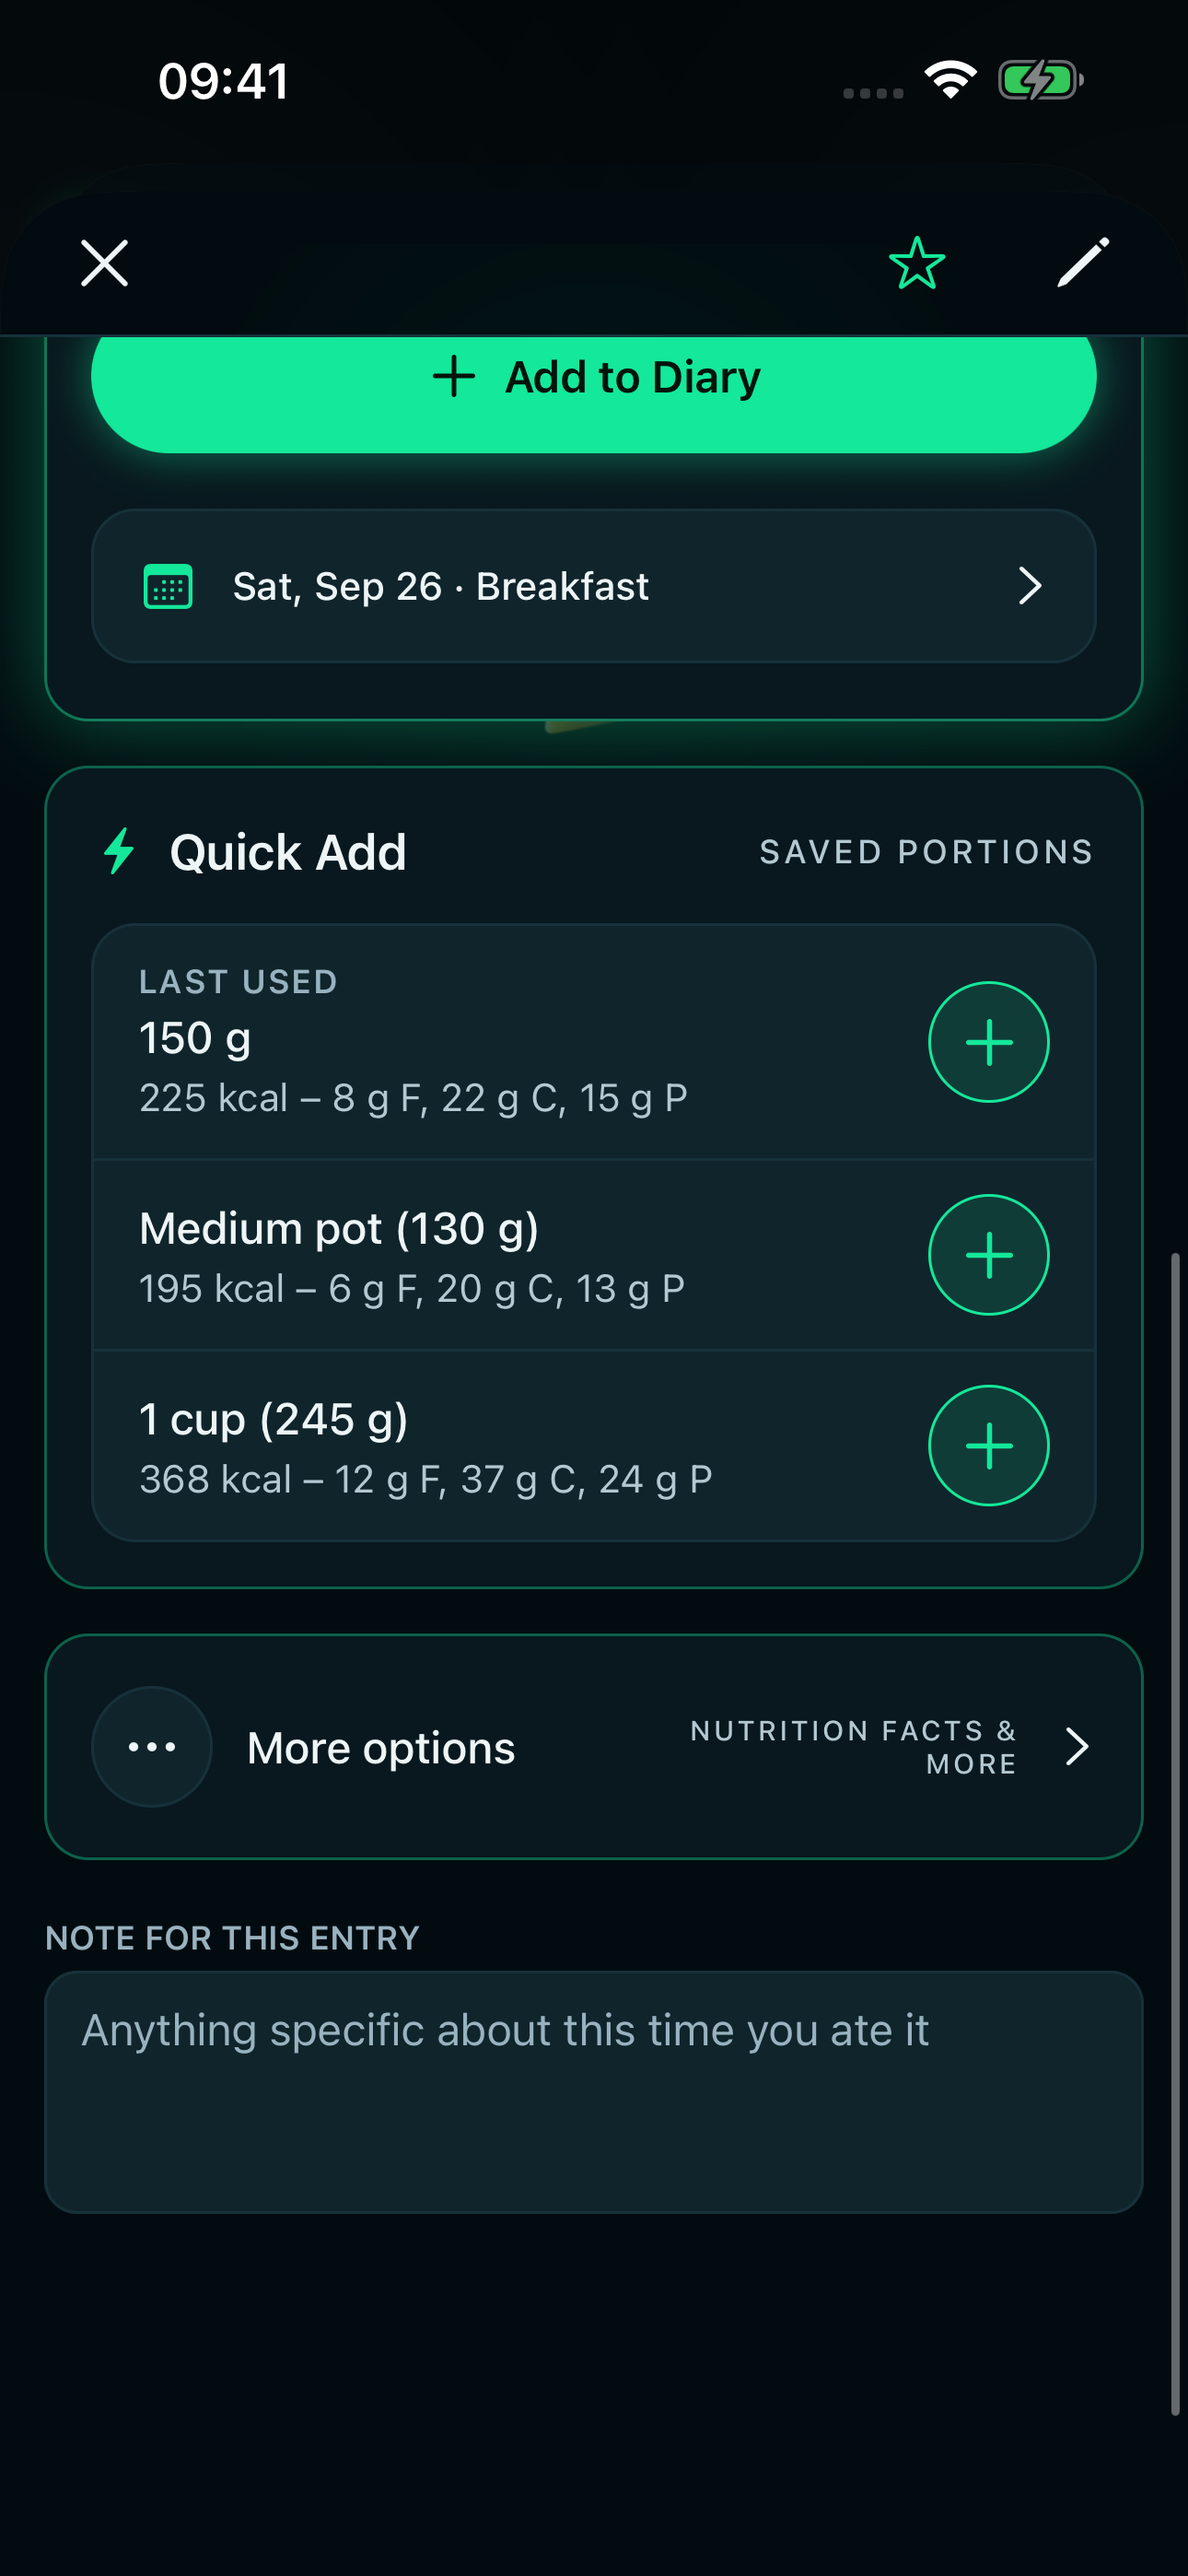
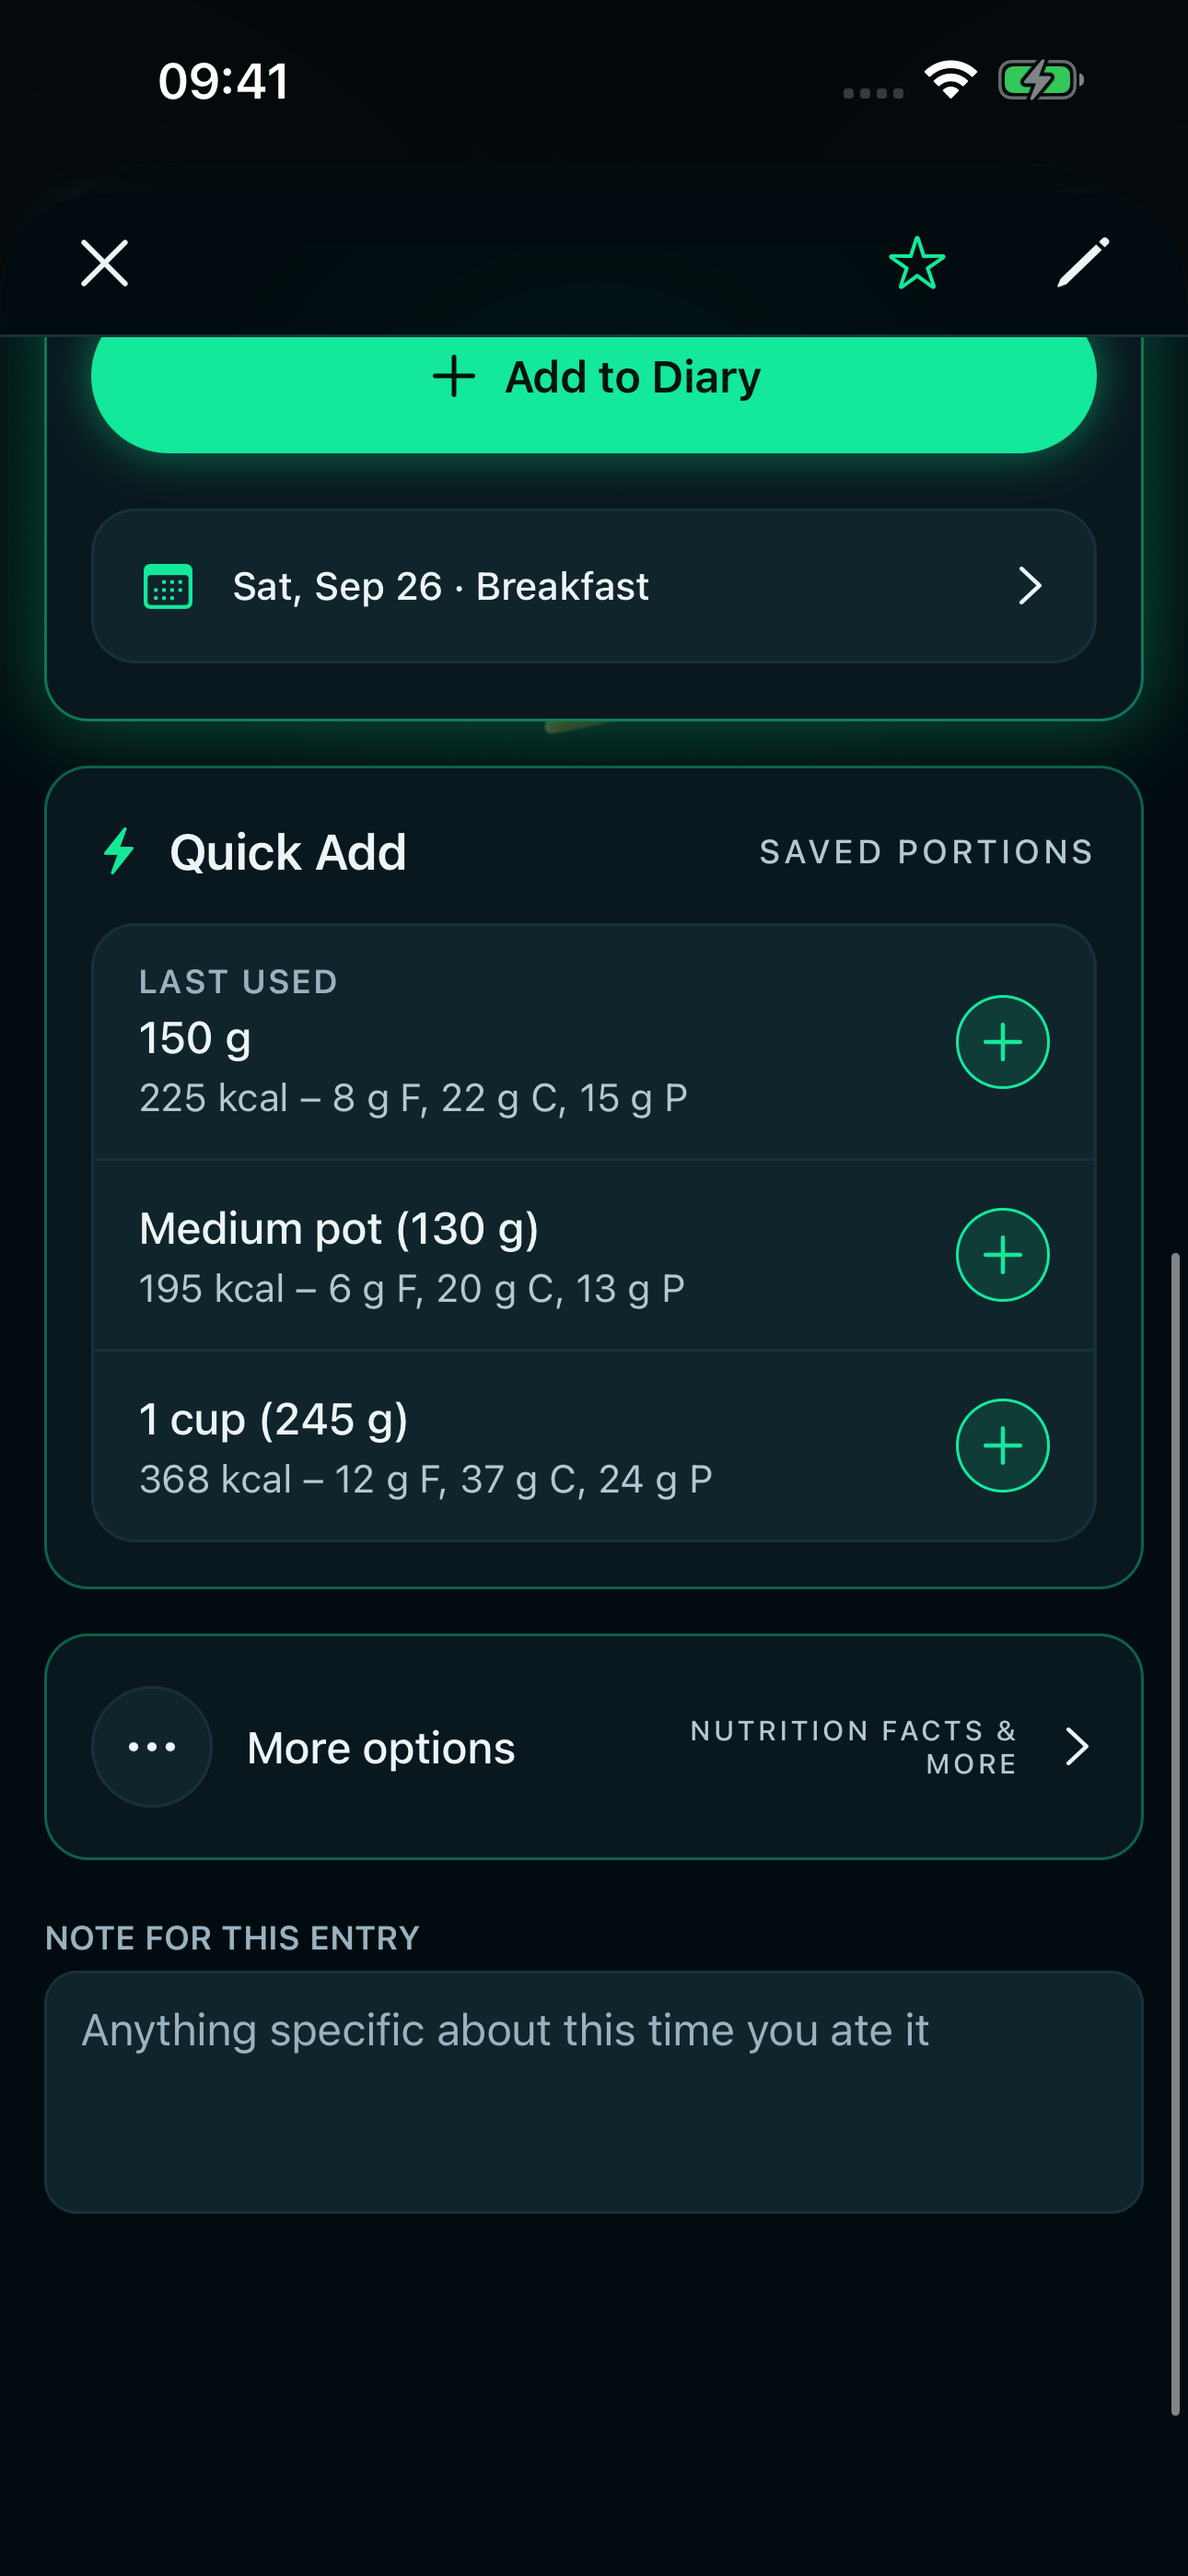
fix(mobile): smaller quick-add buttons on food details and search
The circular + buttons in the Quick add card and on food search rows shrink
from 44 to 34 pt with a smaller icon; hit slop keeps the 44 pt touch target.

diff --git a/SparkyFitnessMobile/src/screens/FoodEntryAddScreen.tsx b/SparkyFitnessMobile/src/screens/FoodEntryAddScreen.tsx
@@ -2726,7 +2726,9 @@ const FoodEntryAddScreenContent: React.FC<FoodEntryAddScreenProps> = ({
                                 calories: kcal,
                               })
                         }
-                        className="h-11 w-11 items-center justify-center rounded-full border"
+                        // Smaller circle; the hit area stays 44 pt.
+                        hitSlop={5}
+                        className="h-[34px] w-[34px] items-center justify-center rounded-full border"
                         style={{
                           borderColor: accentColor,
                           backgroundColor: withAlpha(accentColor, 0.12),
@@ -2736,7 +2738,7 @@ const FoodEntryAddScreenContent: React.FC<FoodEntryAddScreenProps> = ({
                         {busy ? (
                           <ActivityIndicator size="small" color={accentColor} />
                         ) : (
-                          <Icon name="add" size={22} color={accentColor} />
+                          <Icon name="add" size={18} color={accentColor} />
                         )}
                       </TouchableOpacity>
                     </View>

diff --git a/SparkyFitnessMobile/src/components/foodSearch/FoodResultRow.tsx b/SparkyFitnessMobile/src/components/foodSearch/FoodResultRow.tsx
@@ -156,8 +156,9 @@ const FoodResultRow: React.FC<FoodResultRowProps> = ({
             name: item.name,
           })}
           onPress={() => onQuickAdd(item)}
-          hitSlop={6}
-          className="mr-4 w-11 h-11 rounded-full border-2 items-center justify-center active:opacity-70"
+          // Smaller circle; the hit area stays 44 pt.
+          hitSlop={11}
+          className="mr-4 w-[34px] h-[34px] rounded-full border-2 items-center justify-center active:opacity-70"
           style={{
             borderColor: addColor,
             boxShadow: glowing
@@ -165,7 +166,7 @@ const FoodResultRow: React.FC<FoodResultRowProps> = ({
               : undefined,
           }}
         >
-          <Icon name="add" size={20} color={addColor} weight="bold" />
+          <Icon name="add" size={16} color={addColor} weight="bold" />
         </Pressable>
       ) : null}
     </View>
